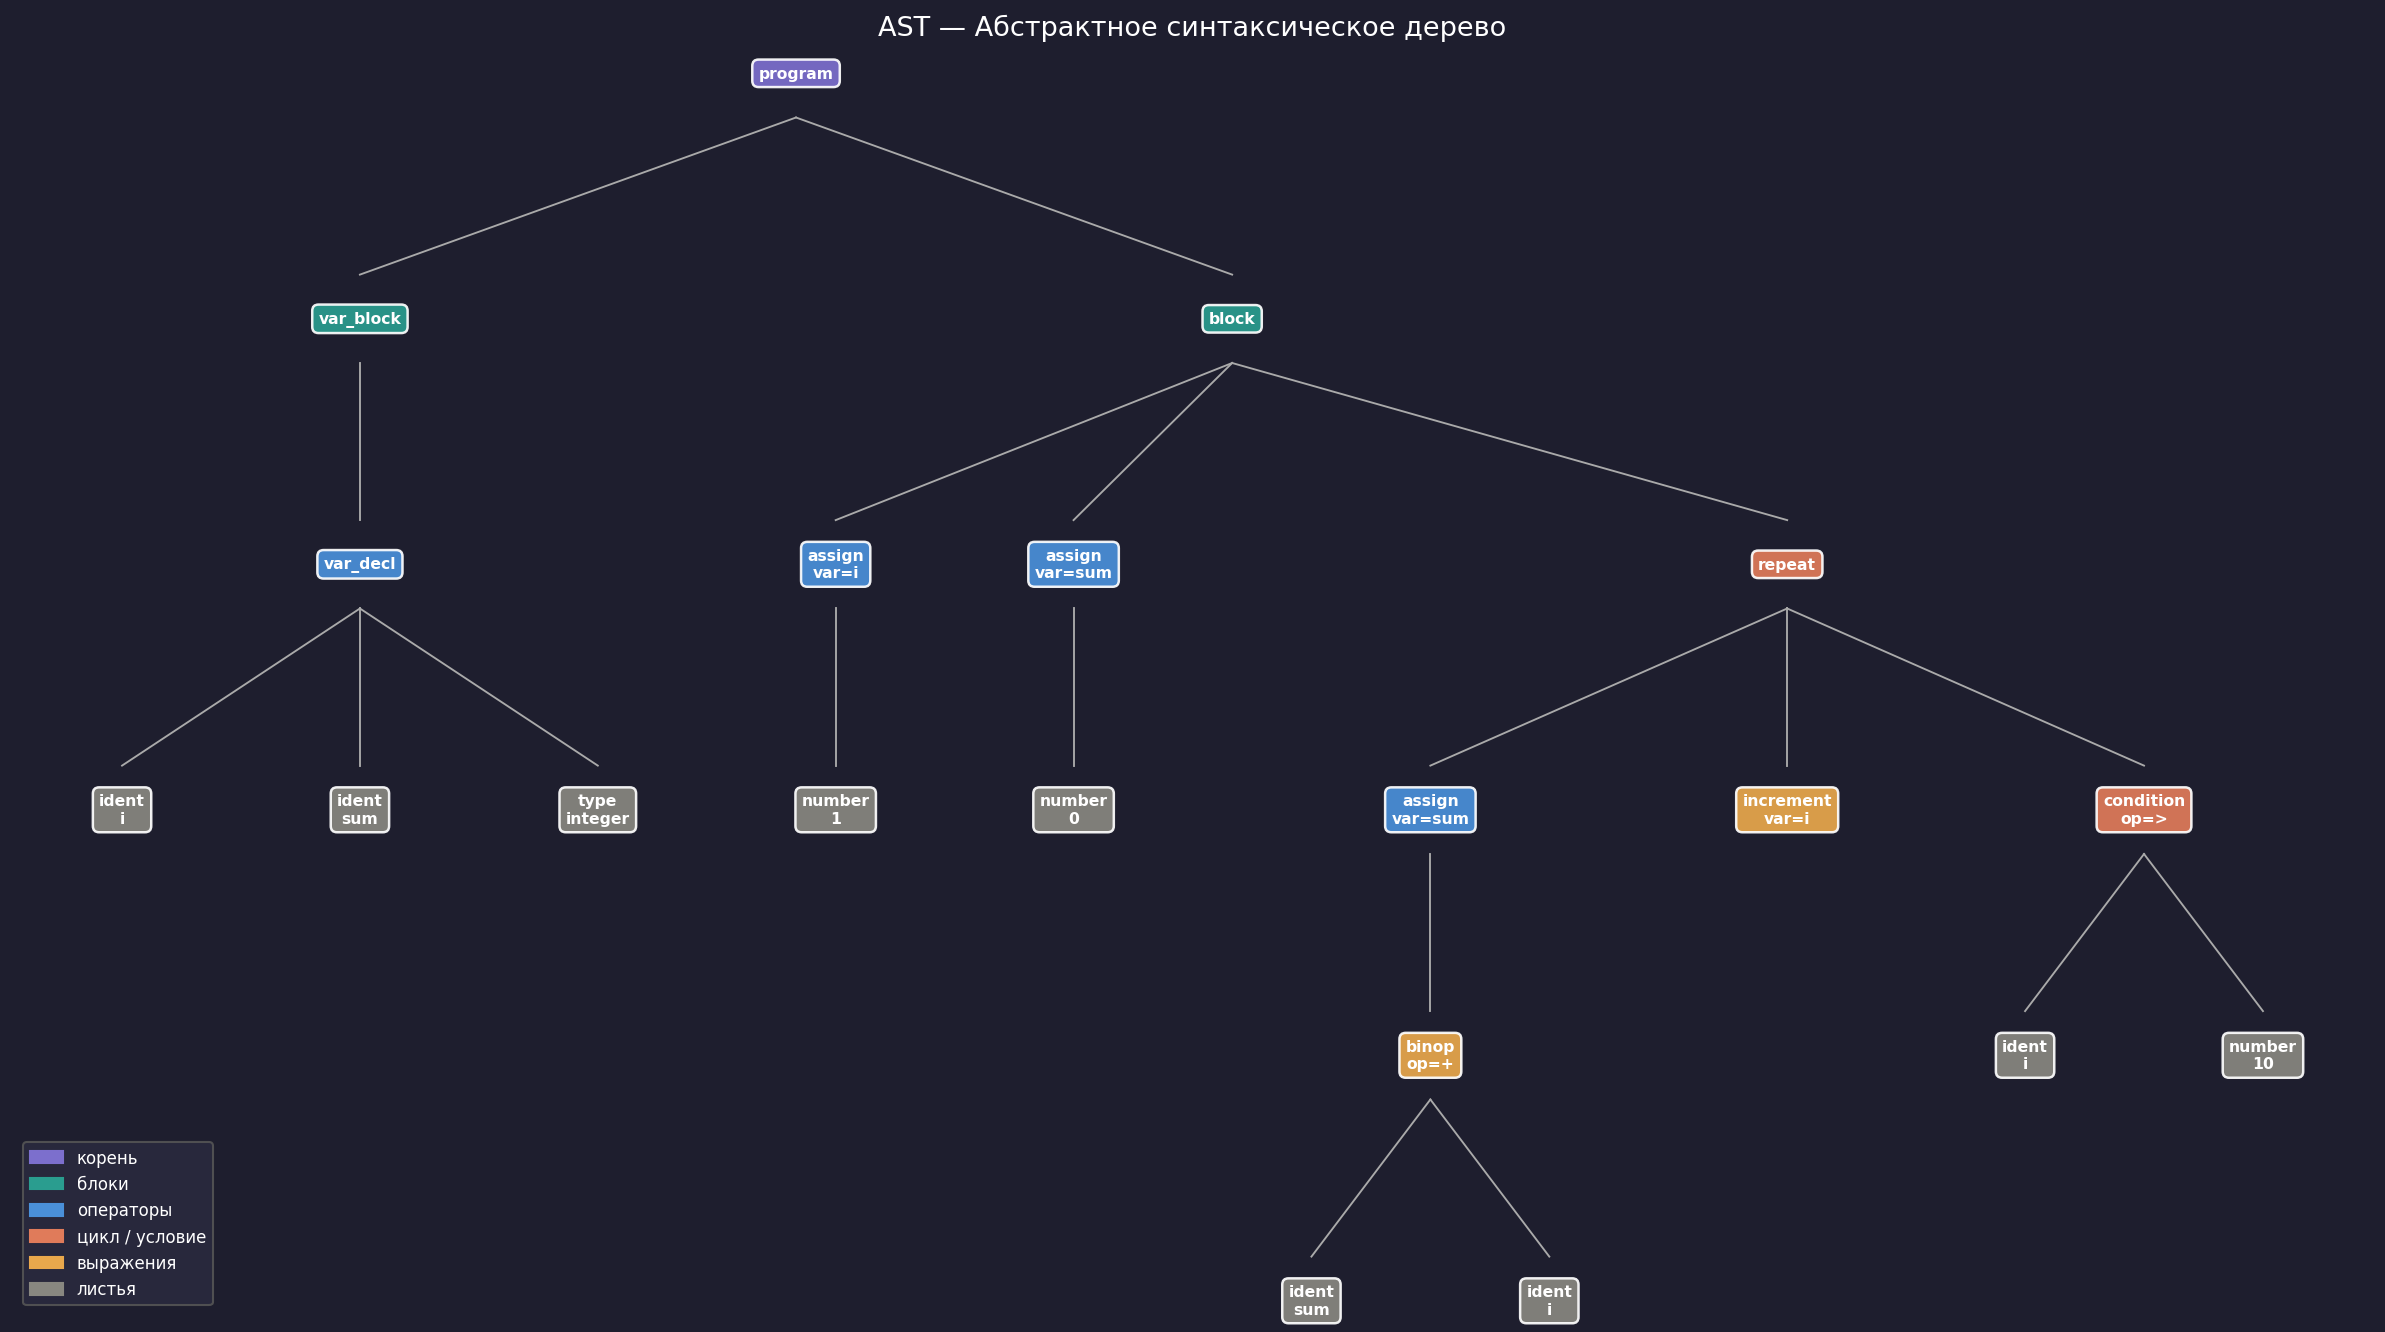
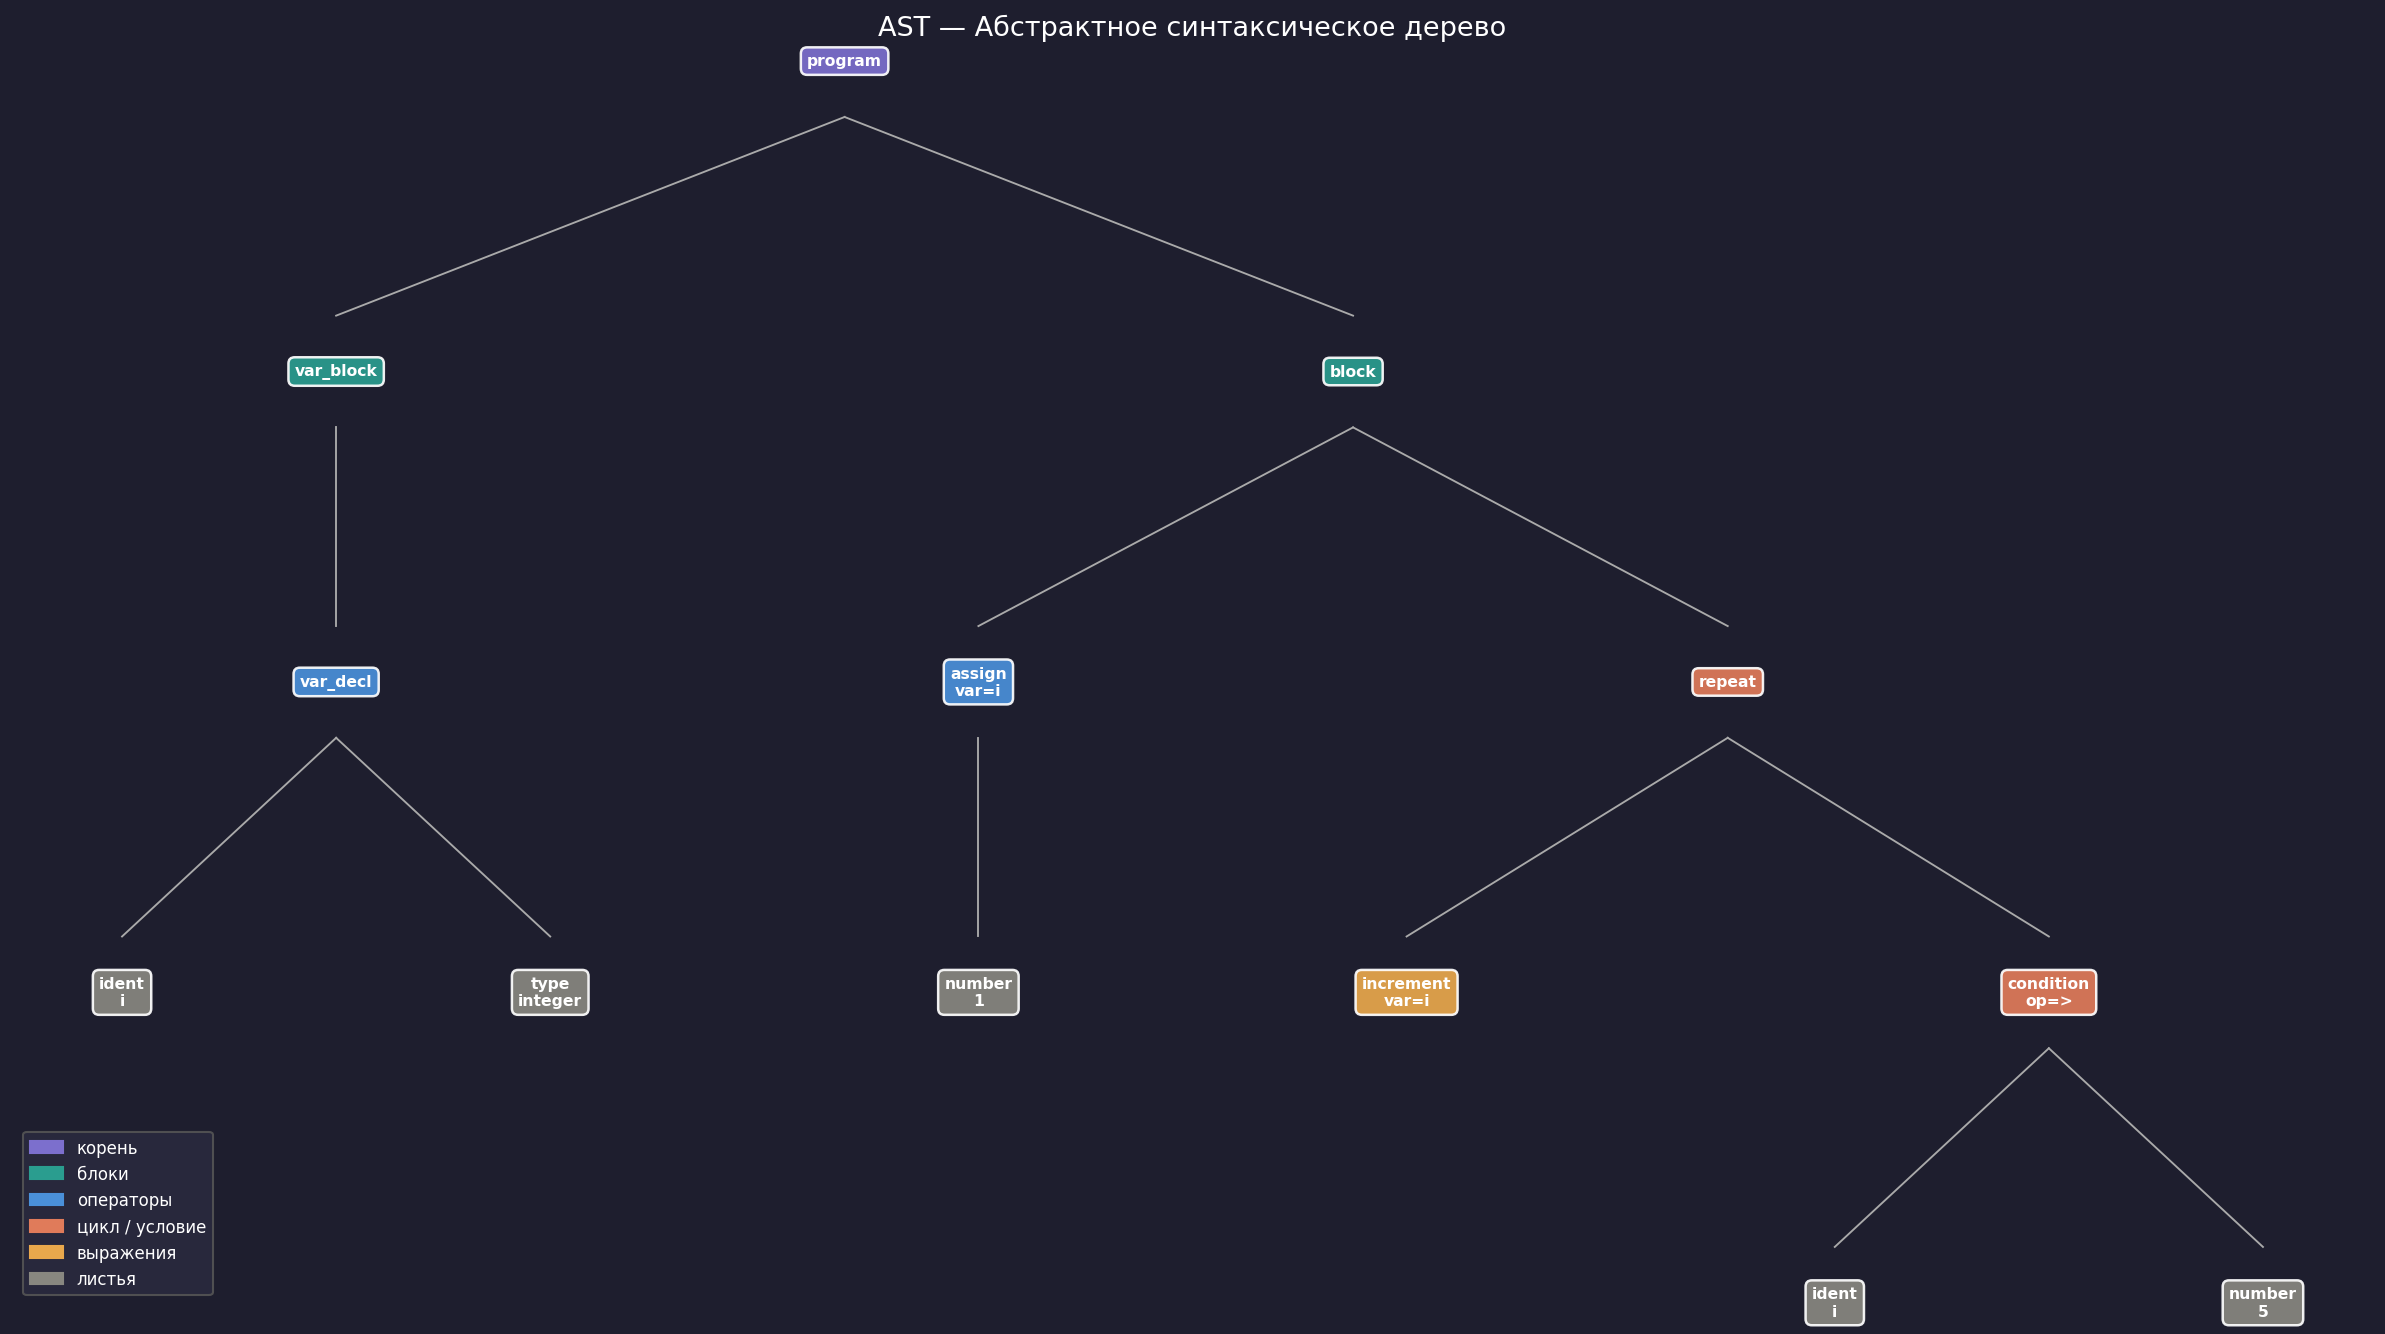
added lab3

diff --git a/lab1/Lab3Semantic.py b/lab1/Lab3Semantic.py
@@ -1,0 +1,68 @@
+import os
+import xml.etree.ElementTree as ET
+
+
+def load_ast(path):
+    return ET.parse(path).getroot()
+
+
+def analyze(root):
+    declared = {}
+    errors = []
+
+    def declare(name, line):
+        if name in declared:
+            errors.append(f"Строка {line}: повторное объявление идентификатора '{name}'")
+        else:
+            declared[name] = line
+
+    def check_used(name, line):
+        if name not in declared:
+            errors.append(f"Строка {line}: использование необъявленного идентификатора '{name}'")
+
+    def walk(el):
+        if el.tag == 'var_decl':
+            type_name = el.find('type').attrib['name']
+            for ident in el.findall('ident'):
+                declare(ident.attrib['name'], ident.attrib.get('line', '?'))
+            return
+
+        if el.tag == 'assign':
+            check_used(el.attrib['var'], el.attrib.get('line', '?'))
+        if el.tag == 'increment':
+            check_used(el.attrib['var'], el.attrib.get('line', '?'))
+        if el.tag == 'ident':
+            check_used(el.attrib['name'], el.attrib.get('line', '?'))
+
+        for child in el:
+            walk(child)
+
+    walk(root)
+    return declared, errors
+
+
+def main():
+    here = os.path.dirname(os.path.abspath(__file__))
+    ast_path = os.path.join(here, 'xml', 'ast.xml')
+
+    if not os.path.exists(ast_path):
+        print("[ОШИБКА] Файл ast.xml не найден. Сначала запустите парсер.")
+        return
+
+    root = load_ast(ast_path)
+    declared, errors = analyze(root)
+
+    print("=== Таблица объявленных идентификаторов ===")
+    for name, line in declared.items():
+        print(f"  {name}")
+
+    if errors:
+        print("\n=== Семантические ошибки ===")
+        for e in errors:
+            print(f"  [ОШИБКА] {e}")
+    else:
+        print("\nСемантических ошибок не обнаружено.")
+
+
+if __name__ == '__main__':
+    main()

diff --git a/lab1/Lab2ParserXML.py b/lab1/Lab2ParserXML.py
@@ -52,10 +52,12 @@ class Parser:
 
     def parse_var_decl(self):
         decl = self.node('var_decl')
-        decl.append(self.node('ident', name=self.consume('ID')['value']))
+        t = self.consume('ID')
+        decl.append(self.node('ident', name=t['value'], line=t['line']))
         while self.peek() and self.peek()['value'] == ',':
             self.consume('DELIM', ',')
-            decl.append(self.node('ident', name=self.consume('ID')['value']))
+            t = self.consume('ID')
+            decl.append(self.node('ident', name=t['value'], line=t['line']))
         self.consume('DELIM', ':')
         decl.append(self.node('type', name=self.consume('KW')['value']))
         self.consume('DELIM', ';')
@@ -90,17 +92,18 @@ class Parser:
         return node
 
     def parse_assign_or_incr(self):
-        ident = self.consume('ID')['value']
+        tok = self.consume('ID')
+        ident, line = tok['value'], tok['line']
         t = self.peek()
         if t and t['value'] == '++':
             self.consume('OP', '++')
             self.consume('DELIM', ';')
-            return self.node('increment', var=ident)
+            return self.node('increment', var=ident, line=line)
         elif t and t['value'] == ':=':
             self.consume('OP', ':=')
             expr = self.parse_expr()
             self.consume('DELIM', ';')
-            assign = self.node('assign', var=ident)
+            assign = self.node('assign', var=ident, line=line)
             assign.append(expr)
             return assign
         else:
@@ -129,7 +132,7 @@ class Parser:
         t = self.peek()
         if t['type'] == 'ID':
             self.consume('ID')
-            return self.node('ident', name=t['value'])
+            return self.node('ident', name=t['value'], line=t['line'])
         elif t['type'] == 'NUM':
             self.consume('NUM')
             return self.node('number', value=t['value'])